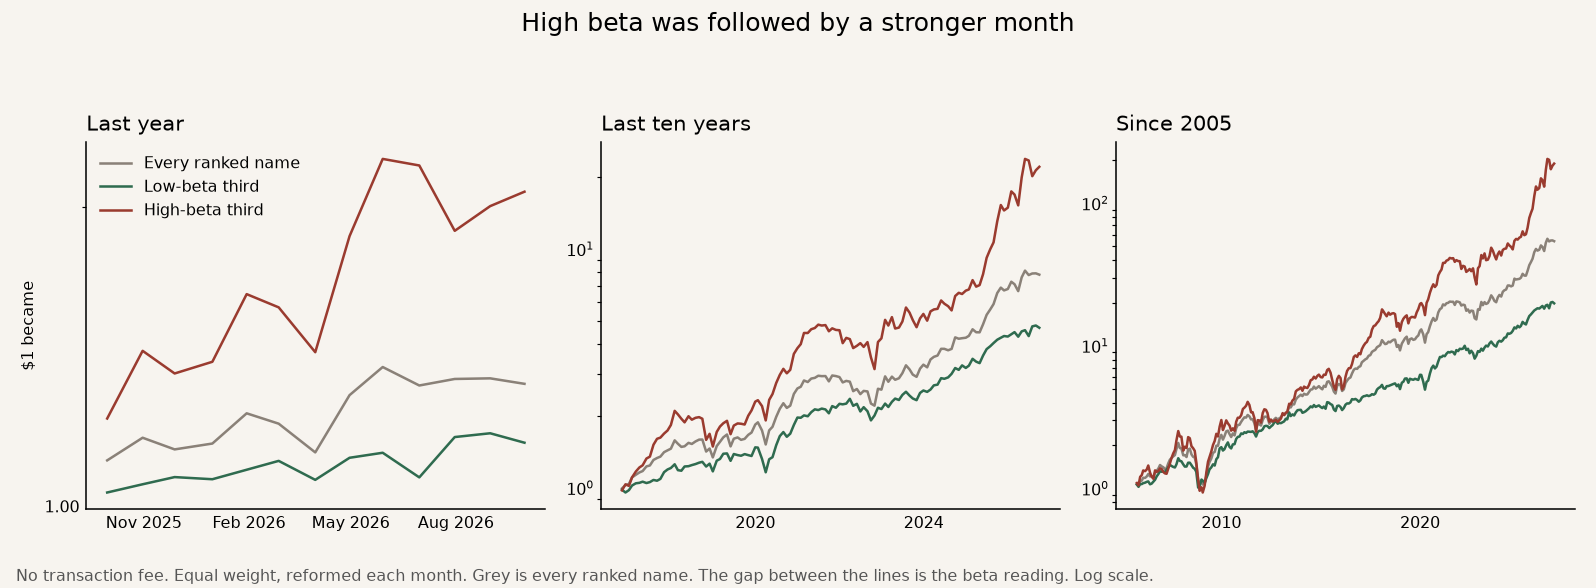
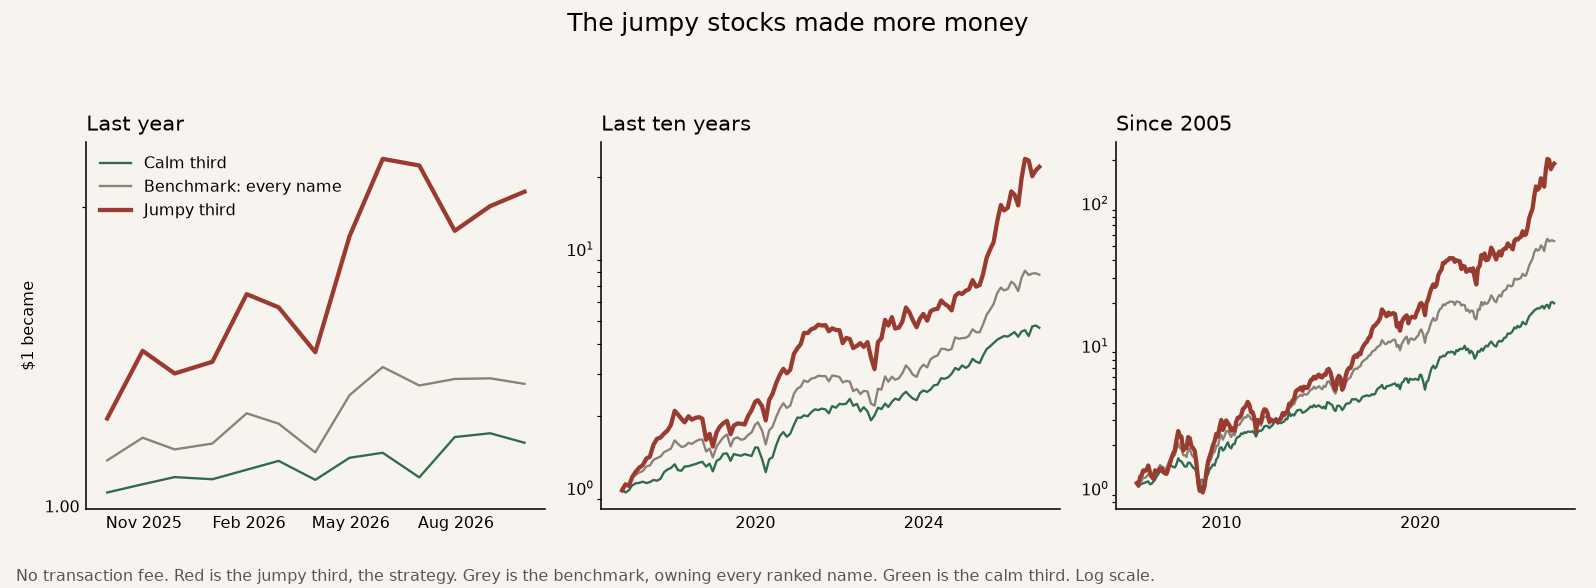
Focus the low-beta page on the jumpy third, judged against owning every name.

diff --git a/low-beta/README.md b/low-beta/README.md
@@ -1,51 +1,51 @@
-# 2026-10-05 · High beta was followed by a stronger month
+# 2026-10-05 · The jumpy stocks made more money
 
-The idea is that a stock which usually moves less than the others is the calmer one to own, and that calm should be the better bet.
+The idea was that a stock which usually moves less than the others is the calmer one to own, and that calm should be the better bet. On this book the jumpy stocks made more money.
 
-Low beta does not have an edge on this book. The low third trailed in both halves of the last year, the last ten years, and the full history. Holding the high third instead made more money, and that is still not an edge against owning every ranked name. Over the full history the extra return was about the extra bounce, and the ride was no smoother.
+The strategy is the jumpy third. Each month, hold the stocks that have been moving around more than the others. The benchmark is owning every ranked stock, an equal amount of each. That is the grey line. The green line is the calm third, the group the idea expected to win.
 
-![High beta was followed by a stronger month](scorecard.png)
+A **bold** row is a judge. The strategy works on that row when it beats the benchmark. More money is better. A higher Sharpe is a smoother ride. A smaller worst fall is better.
 
-How one dollar grew. Green is the low-beta third, red is the high-beta third, grey is every ranked name.
+![The jumpy stocks made more money](scorecard.png)
+
+How one dollar grew. Red is the strategy. Grey is the benchmark. Green is the calm group.
 
 ![How one dollar grew](growth.png)
 
-## The numbers
+## The judges
 
-No fee. At each month-end, beta is how much the name moved with the other names over the prior year of daily returns. The name is left out of that book. Inside the United States, and inside Hong Kong, the lowest third is held against the highest third for the next month. A listing with fewer than nine names that month is not ranked. Taiwan, Japan, Amsterdam and London are in that group here. They still sit in the book the beta is measured against.
-
-Sharpe uses each month's ups and downs, and cash earns nothing. Alpha is the yearly extra in the low third after giving credit for how much it bounced with every ranked name. Beta near 1 means it bounced about as much as every ranked name. Return per unit of fall is the yearly return divided by the worst fall.
+No fee. The bold rows decide the page. The line under each one is the benchmark.
 
 | | Last year | Last ten years | Since 2005 |
 |---|---:|---:|---:|
-| Months | 13 | 120 | 253 |
-| Low third, yearly return | +14.6% | +16.7% | +15.2% |
-| Every ranked name, yearly return | +30.0% | +22.8% | +20.8% |
-| High third, yearly return | +96.3% | +36.3% | +28.2% |
-| Low third, one dollar became | $1.16 | $4.68 | $19.85 |
-| Every ranked name, one dollar became | $1.33 | $7.82 | $54.15 |
-| High third, one dollar became | $2.07 | $22.13 | $189.54 |
-| Low third, worst fall | −5.5% | −21.4% | −37.8% |
-| Every ranked name, worst fall | −8.7% | −25.2% | −48.9% |
-| High third, worst fall | −15.4% | −34.9% | −62.9% |
-| Low third, return per unit of fall | 2.63 | 0.78 | 0.40 |
-| Every ranked name, return per unit of fall | 3.46 | 0.90 | 0.43 |
-| High third, return per unit of fall | 6.27 | 1.04 | 0.45 |
-| Low third, Sharpe | 1.06 | 1.09 | 0.99 |
-| Every ranked name, Sharpe | 1.33 | 1.19 | 1.07 |
-| High third, Sharpe | 1.66 | 1.19 | 0.97 |
-| Alpha of the low third versus every ranked name | +4.2% a year | +1.8% a year | +1.5% a year |
-| Beta of the low third versus every ranked name | 0.36 | 0.66 | 0.66 |
-| Alpha of the high third versus every ranked name | +22.6% a year | +3.4% a year | −0.4% a year |
-| Beta of the high third versus every ranked name | 1.97 | 1.43 | 1.43 |
-| Mean beta in the low third | 0.42 | 0.46 | 0.51 |
-| Mean beta in the high third | 1.63 | 1.53 | 1.46 |
-| Low third, worst month | −5.5% | −12.0% | −22.7% |
-| Low third, months that made money | 9 of 13 | 76 of 120 | 158 of 253 |
-| Months the low side beat the high side | 4 of 13 | 48 of 120 | 108 of 253 |
+| **One dollar became.** What $1 grew into. | **$2.07** | **$22.13** | **$189.54** |
+| Benchmark. Owning every ranked name. | $1.33 | $7.82 | $54.15 |
+| **Yearly return.** That same money, as a pace per year. | **+96.3%** | **+36.3%** | **+28.2%** |
+| Benchmark | +30.0% | +22.8% | +20.8% |
+| **Sharpe.** Higher means a smoother ride for the return you got. | **1.66** | **1.19** | **0.97** |
+| Benchmark | 1.33 | 1.19 | 1.07 |
+| **Worst fall.** The deepest drop from a peak. Smaller is better. | **−15.4%** | **−34.9%** | **−62.9%** |
+| Benchmark | −8.7% | −25.2% | −48.9% |
+| **Both halves.** Split the history in two. The money has to win in both. | **Yes** | **Yes** | **Yes** |
 
-Over ten years the high third's Sharpe matches the book, at 1.19. Since 2005 the book's Sharpe is 1.07, and both thirds are below that. The high third made more money because it bounced more. After giving credit for that bounce, the high third's alpha is +3.4% a year over ten years, positive in both halves of those ten years, and −0.4% a year since 2005. The first half of the full history is negative. The low third's alpha is +1.8% a year over ten years and +1.5% since 2005. The low third still made less money, and its return per unit of fall is lower than the book's.
+The jumpy third made more money than the benchmark, in both halves of every window. The ride did not win. Over ten years the Sharpe ties the benchmark, at 1.19. Since 2005 the benchmark is smoother, 1.07 against 0.97. The worst fall was deeper every time.
 
-The low third is a defensive sleeve. XLU sat in it in 251 of 253 months, SPY in 227, B in 201, 0823-HK in 200, NKE in 193 and CVX in 176.
+The money judges pass. The ride judges do not. It beat the calm third, and it ended richer than owning everything, on a rougher ride.
 
-The last year's +96% in the high third is a few very large months, including SNDK, MU and AMD. The ten-year result and the full history agree with each other, and they are the result.
+## The rest
+
+These rows are context. They are not the judges.
+
+| | Last year | Last ten years | Since 2005 |
+|---|---:|---:|---:|
+| Months the jumpy third beat the benchmark | 9 of 13 | 73 of 120 | 146 of 253 |
+| Jumpy third minus the benchmark, a month | +4.20 pp | +1.09 pp | +0.72 pp |
+| Alpha. Yearly extra after crediting the extra bounce. | +22.6% | +3.4% | −0.4% |
+| Beta versus the benchmark. 1.43 means it bounced 1.43 times as much. | 1.97 | 1.43 | 1.43 |
+| Calm third, one dollar became | $1.16 | $4.68 | $19.85 |
+
+Beta is how much a stock moved with the other names over the prior year. The stock itself is left out of that count. The rank is inside the United States and inside Hong Kong. A listing with fewer than nine names that month is not put in either third.
+
+The calm third was a defensive sleeve. XLU sat in it in 251 of 253 months, SPY in 227, Barrick in 201, 0823-HK in 200, Nike in 193 and Chevron in 176.
+
+The last year's +96% includes a few very large months, among them SanDisk, Micron and AMD. The ten-year window and the history since 2005 are the result.

diff --git a/README.md b/README.md
@@ -4,7 +4,7 @@ Each test lives in its own folder. Open a folder to see its charts. No transacti
 
 Newest first.
 
-- [2026-10-05 · High beta was followed by a stronger month](low-beta/)
+- [2026-10-05 · The jumpy stocks made more money](low-beta/)
 - [2026-10-05 · Momentum](momentum/)
 - [2026-10-05 · Calm volume does not keep the same sign](calm-volume/)
 - [2026-10-05 · The night holds the return](night-and-day/)
